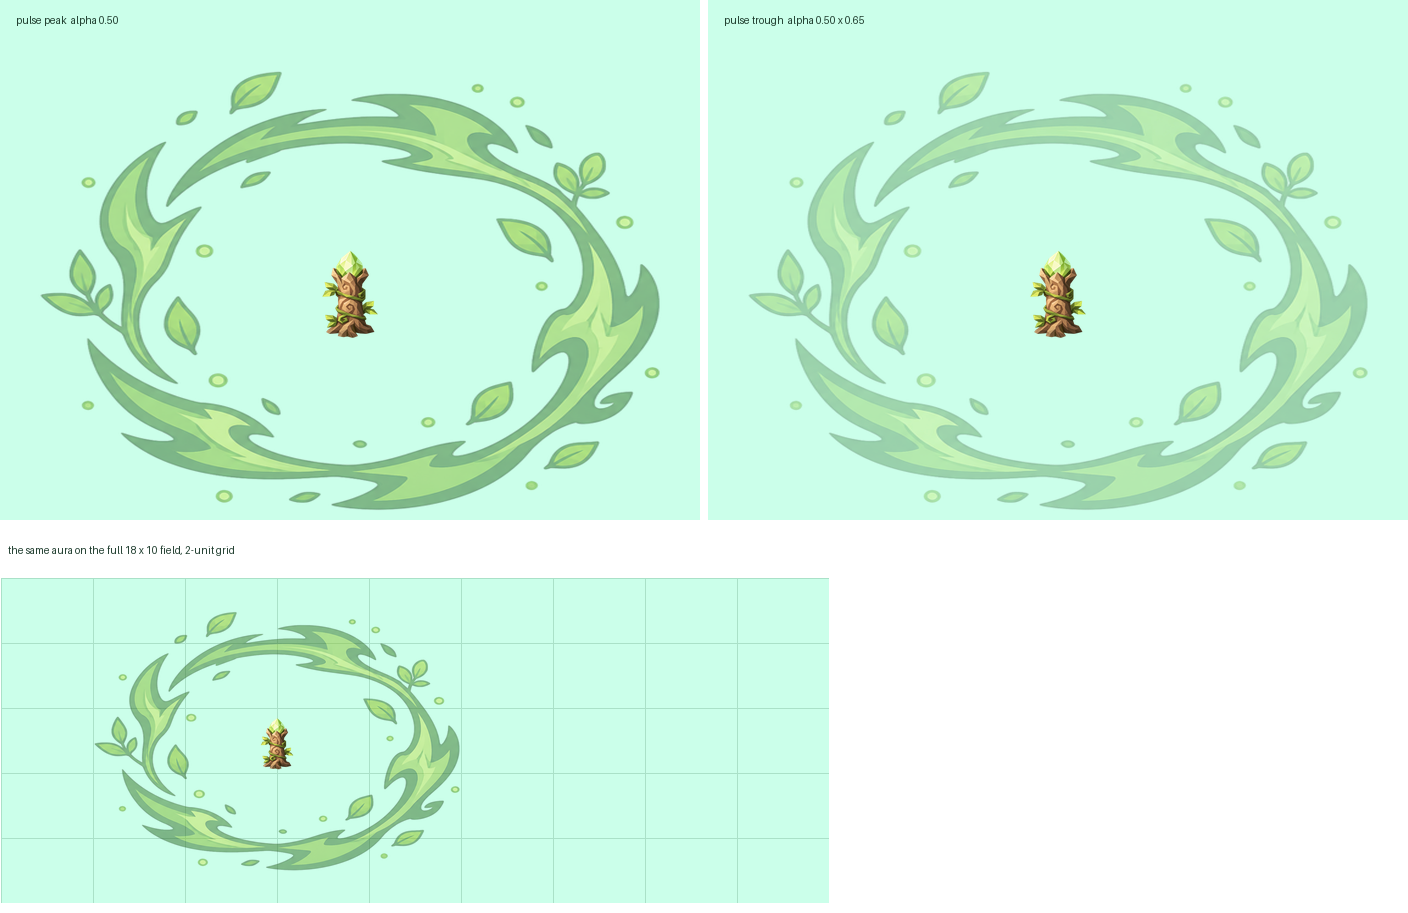
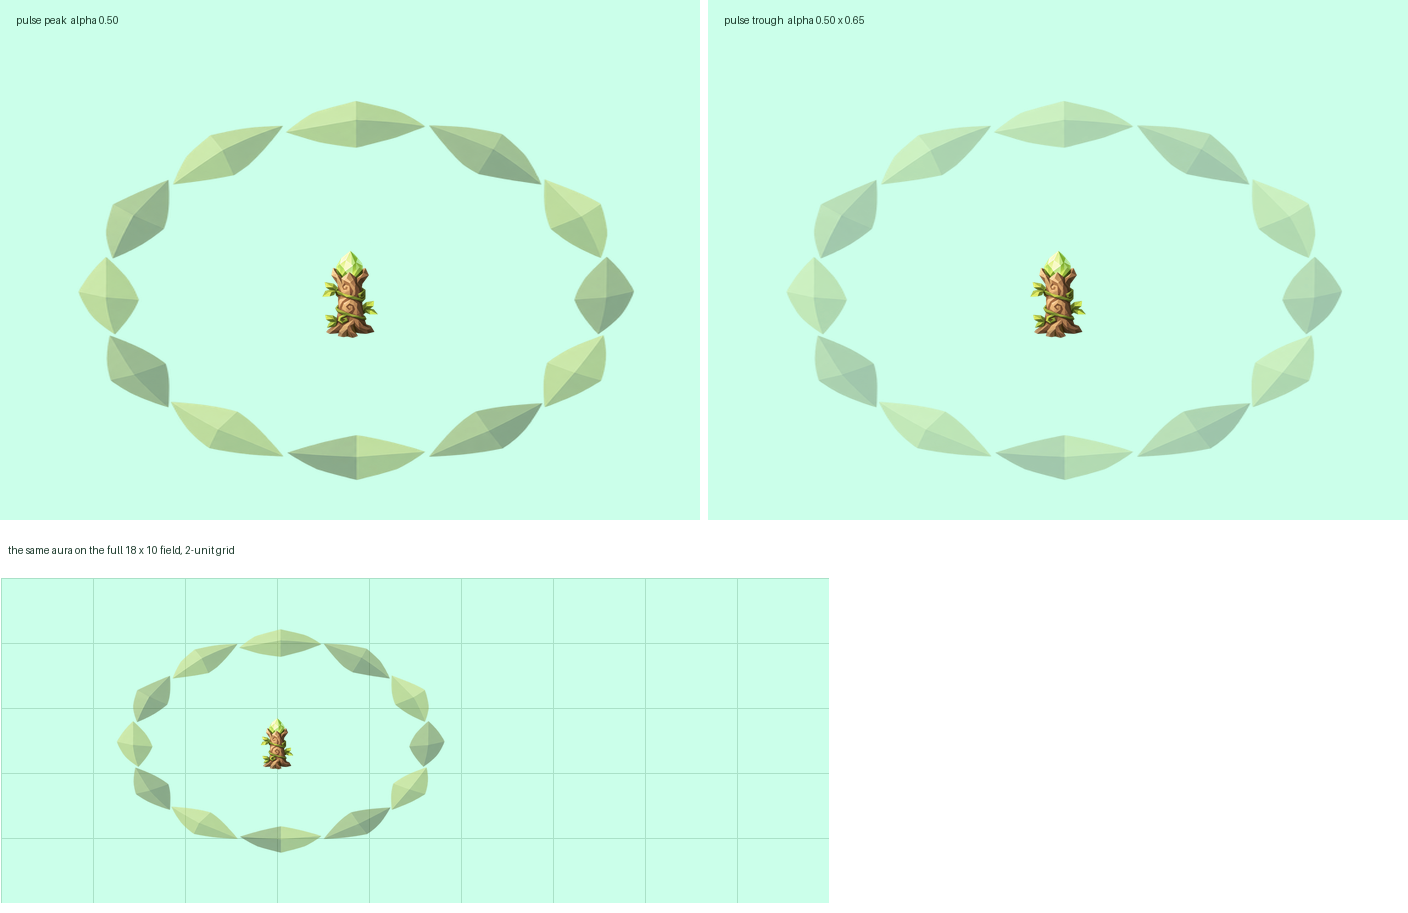
art: draw the repair aura with a master-v2 ring instead of the legacy one
The first pass scaled Assets/Art/Images/Effect/Aura/nature_aura.png to 6.25x,
which broke style two separate ways.

Technique: nature_aura is legacy art with a heavy dark outer contour on every
leaf, and STYLE.md says "No outer contour line. Forms separate by value, not by
stroke." At 8 world units that forbidden contour was about six times heavier
than any other line on screen. The six element auras are all drawn 1.28 units
wide and the largest real use is FireSpirit at 2.8x, so 8 units was 2.2x past
anything the art was made for.

Meaning: ANIMATION-ASSETS.md binds nature_aura to NatureIdleAura and
NatureAttackAura, which say what element state a unit is under. A radius is a
different statement, and one image cannot carry both.

So this adds Assets/Art/Images/Effect/AreaOfEffect/RepairAura.png, generated
against the master-v2 anchors: twelve large flat leaf facets, hard creases, no
contour anywhere, 512x512 RGBA at PPU 400, band 10.3% of the diameter, middle
empty so it never covers the unit standing in it. Square canvas on purpose --
AuraRadiusScaler scales each axis by half the sprite rect, so square is what
makes the circle round in world units and keeps localScale uniform at 6.25.

Area markers get their own folder and their own section in ANIMATION-ASSETS.md,
including why a status aura must not be scaled up into one, so the next asset
does not repeat this. The concept README records all three candidates, and that
[…]

Changed region(s): [[0.0312, 0.0613, 0.4688, 0.5827], [0.5312, 0.0613, 0.9688, 0.5827], [0.0625, 0.6747, 0.3438, 0.9507]]

diff --git a/.art/concept/repair-totem/finalize-aura.py b/.art/concept/repair-totem/finalize-aura.py
@@ -1,0 +1,90 @@
+#!/usr/bin/env python3
+"""Finalize a generated aura ring into a square production PNG.
+
+Differs from finalize.py in one way that matters: the output canvas is square.
+AuraRadiusScaler sizes the sprite by half its rect on each axis, so a square
+canvas holding a round ring makes the drawn circle round in world units and
+keeps the prefab's localScale uniform. A tight trim would hand back whatever
+aspect the generator happened to draw.
+
+Refuses a source without real alpha rather than matting one out, and reports the
+two numbers the brief is checked against: how round the ring is, and how thick
+its band is as a share of the diameter.
+"""
+import sys
+
+from PIL import Image
+
+
+def has_real_alpha(im):
+    if im.mode != "RGBA":
+        return False, f"mode is {im.mode}, not RGBA"
+    if im.getextrema()[3][0] == 255:
+        return False, "no pixel is transparent"
+    width, height = im.size
+    corners = [(0, 0), (width - 1, 0), (0, height - 1), (width - 1, height - 1)]
+    alphas = [im.getpixel(corner)[3] for corner in corners]
+    if any(alpha != 0 for alpha in alphas):
+        return False, f"corner alphas are {alphas}, expected all 0"
+    return True, ""
+
+
+def band_share(im):
+    """Band thickness over diameter, measured across the ring's horizontal centre."""
+    alpha = im.getchannel("A").load()
+    y = im.height // 2
+    opaque = [x for x in range(im.width) if alpha[x, y] > 8]
+    if not opaque:
+        return None
+    runs, start = [], opaque[0]
+    for previous, current in zip(opaque, opaque[1:]):
+        if current != previous + 1:
+            runs.append((start, previous))
+            start = current
+    runs.append((start, opaque[-1]))
+    diameter = opaque[-1] - opaque[0] + 1
+    thickest = max(end - begin + 1 for begin, end in runs)
+    return thickest / diameter, len(runs)
+
+
+def main():
+    if len(sys.argv) != 4:
+        print(f"usage: {sys.argv[0]} <input.png> <output.png> <size>", file=sys.stderr)
+        sys.exit(1)
+
+    src_path, dst_path, size = sys.argv[1], sys.argv[2], int(sys.argv[3])
+    im = Image.open(src_path).convert("RGBA")
+
+    ok, reason = has_real_alpha(im)
+    if not ok:
+        print(f"REJECT: {src_path} has no real alpha ({reason})", file=sys.stderr)
+        sys.exit(2)
+
+    bbox = im.getbbox()
+    if bbox is None:
+        print(f"REJECT: {src_path} is fully transparent", file=sys.stderr)
+        sys.exit(2)
+
+    cropped = im.crop(bbox)
+    width, height = cropped.size
+    print(f"source ring bbox {width}x{height}, aspect {width / height:.3f}")
+
+    # Pad the shorter axis symmetrically so the ring stays centred on a square canvas.
+    side = max(width, height)
+    square = Image.new("RGBA", (side, side), (0, 0, 0, 0))
+    square.alpha_composite(cropped, ((side - width) // 2, (side - height) // 2))
+
+    final = square.resize((size, size), Image.LANCZOS)
+    final.save(dst_path)
+
+    measured = band_share(final)
+    if measured is not None:
+        share, runs = measured
+        print(f"band is {share:.1%} of the diameter, {runs} opaque runs across the centre line")
+    transparent = sum(1 for a in final.getchannel("A").getdata() if a == 0)
+    print(f"{dst_path}: {final.size[0]}x{final.size[1]} {final.mode}, "
+          f"{transparent / (size * size):.1%} fully transparent")
+
+
+if __name__ == "__main__":
+    main()

diff --git a/.art/concept/repair-totem/preview-aura.py b/.art/concept/repair-totem/preview-aura.py
@@ -19,7 +19,7 @@ TOTEM_WIDTH, TOTEM_HEIGHT = 99 / 133.333333, 235 / 133.333333
 GROUND = (203, 255, 234, 255)
 INK = (30, 60, 45, 255)
 
-ring = Image.open("Assets/Art/Images/Effect/Aura/nature_aura.png").convert("RGBA")
+ring = Image.open("Assets/Art/Images/Effect/AreaOfEffect/RepairAura.png").convert("RGBA")
 totem = Image.open("Assets/Resources/Game/sprites/RepairTotem.png").convert("RGBA")
 
 

diff --git a/.art/concept/repair-totem/README.md b/.art/concept/repair-totem/README.md
@@ -150,14 +150,13 @@ reached. The radius is on the wire already — `RepairAura.start` calls
 `gameObject.drawCircle(Vector3.ZERO, radius, GizmoCategory.AreaOfEffect)` — but
 `ServedObjectGizmoRenderer` is inside `#if UNITY_EDITOR`, so a player never sees it.
 
-`RepairTotem.prefab` therefore carries a `RepairAura` child: the existing
-`nature_aura.png` ring at alpha 0.5 and sorting order 6, so it sits above the shadow
-(5) and under every body sprite (10), driven by the existing `IdleAuraEffect` for a
-slow breathing pulse, and sized by the new `AuraRadiusScaler`. That component reads
-`repair_totem.radius` out of the parameter table `ParametersDataSource` caches — the
-same table the server reads — so the drawn circle follows the migration value instead
-of a number copied into the prefab. It falls back to 4.0 with a warning when the table
-has not been fetched.
+`RepairTotem.prefab` therefore carries a `RepairAura` child: a ring sprite at alpha
+0.5 and sorting order 6, so it sits above the shadow (5) and under every body sprite
+(10), driven by the existing `IdleAuraEffect` for a slow breathing pulse, and sized by
+the new `AuraRadiusScaler`. That component reads `repair_totem.radius` out of the
+parameter table `ParametersDataSource` caches — the same table the server reads — so
+the drawn circle follows the migration value instead of a number copied into the
+prefab. It falls back to 4.0 with a warning when the table has not been fetched.
 
 The ring is a sprite standing in the world XY plane while the aura it stands for is a
 circle lying on the ground XZ plane. Those project to the same on-screen ellipse only
@@ -165,10 +164,74 @@ because this camera is tilted exactly 45 degrees, where sine and cosine are equa
 reasoning and what breaks if the camera ever moves are written up in
 `.agents/docs/scene-space.md`.
 
-`preview-aura.py` renders `aura-preview.png` by applying that projection by hand: the
-pulse at both ends of its alpha tween, and the same aura placed on the full 18 x 10
-field with a 2-unit grid, so the radius can be counted off the grid. The ring spans
-x 2..10 and z 1..9 around a totem at (6, 5), which is radius 4.
+### The first attempt reused `nature_aura.png`, and that was wrong
+
+The first version of this scaled the existing `Assets/Art/Images/Effect/Aura/nature_aura.png`
+to 6.25x. It was reverted for two separate reasons, both worth keeping written down:
+
+- **Technique.** `nature_aura.png` is legacy art with a heavy dark outer contour on
+  every leaf. `STYLE.md` says "No outer contour line. Forms separate by value, not by
+  stroke." Blowing it up to 8 world units made that forbidden contour roughly six times
+  heavier than any other line on screen. This PR had already been careful not to use the
+  legacy `HealingTotem`/`RallyingTotem`/`FrenzyTotem` sprites as rendering references,
+  and then put a legacy ring on top of the master-v2 sprite anyway.
+- **Meaning.** `ANIMATION-ASSETS.md`'s 오라 의미 table binds `nature_aura.png` to
+  `NatureIdleAura` and `NatureAttackAura`. Those are *status* auras: what element state
+  a unit is under. An area-of-effect radius is a different statement, and sharing one
+  image makes the same wreath mean two things. `ANIMATION-ASSETS.md` now has a
+  범위 표시 오라 section drawing that line, and area markers live under their own
+  `Assets/Art/Images/Effect/AreaOfEffect/` folder.
+
+### Candidates
+
+Three directions were generated, each one `image_gen` call with
+`MasterStyleKey.png` and `WorldTreeSpirit.png` attached, prompts in
+`prompts/aura-shared-prefix.txt` plus `prompts/aura-variant-*.txt`. The shared prefix
+leads with the transparency requirement rather than trailing it, and raises "no outer
+contour line" to the most important rule for this asset, since an outline is exactly
+what was being removed. `aura-candidates.png` compares all three at the size they are
+actually drawn — radius 4 on a 2-unit grid with the totem in the middle — plus a 64px
+readability chip.
+
+- **`RepairAura-v1-leaf-facets-source.png`** (chosen) — twelve large flat leaf kites
+  laid around the circle, each two facet planes split by one hard crease, alternating
+  light and dark nature greens, with transparent gaps between them. Band measures 10.2%
+  of the diameter, which is what the brief asked for, and it is the quietest of the
+  three behind gameplay.
+- **`RepairAura-v2-grass-blades-source.png`** (alternate, not used) — low grass tufts
+  standing around the circle. A clean real-alpha generation and a good look, but it is
+  built from 12 to 14 tufts of several blades each, so at 8 units the parts get small
+  and the ring starts to read as scatter rather than as one boundary. Kept in case a
+  future pass wants the more organic reading.
+- **v3, a woven root band** (prompt kept, image not committed) — a closed pale-wood
+  rope hoop with four leaf clusters. Its first `image_gen` call came back opaque and the
+  generating agent then ran a connected-component script to manufacture an alpha channel,
+  which is the chroma-keying `make-game-art/SKILL.md` forbids; that output was discarded
+  rather than accepted, and a second call produced genuine alpha. The clean version was
+  still not used: an unbroken brown band is the heaviest of the three, and its wood tone
+  competes with the totem's own bark instead of reading as an aura.
+
+### Finalizing
+
+`finalize-aura.py` differs from `finalize.py` in one way that matters: it pads the
+shorter axis to a square before resizing, instead of trimming tight. `AuraRadiusScaler`
+scales each axis by half the sprite rect on that axis, so a square canvas is what makes
+the drawn circle round in world units and keeps the prefab's `localScale` uniform at
+6.25. The chosen source cropped to 1230x1207 (aspect 1.019), so squaring it moved almost
+nothing. The finished sprite is 512x512 RGBA at PPU 400, 83.9% fully transparent, band
+10.3% of the diameter, all four corners alpha 0, no bright-desaturated block and no
+stray saturated pixels.
+
+`preview-aura.py` renders `aura-preview.png` by applying the camera's 45° projection by
+hand: the pulse at both ends of its alpha tween, and the same aura placed on the full
+18 x 10 field with a 2-unit grid, so the radius can be counted off the grid. The ring
+spans x 2..10 and z 1..9 around a totem at (6, 5), which is radius 4.
+
+### Known limit
+
+A `SpriteRenderer` is not clipped to the field. `SkillIndicatorShapeRenderer` clips its
+polygon to X 0..18 and Z 0..10; this ring does not, so a totem placed near a board edge
+draws leaves past it. Moving the visual to a mesh is the fix if that ever matters.
 
 ## Not run
 

diff --git a/.art/ANIMATION-ASSETS.md b/.art/ANIMATION-ASSETS.md
@@ -262,6 +262,35 @@ PPU·pivot·앵커 좌표를 같이 출력한다.
 스크립트로 지워서 투명하게 만들지 않는다"는 원래 격자무늬와 사진 같은 배경을
 두고 쓴 규칙이다. 요청해서 받은 단색 키는 그 규칙의 대상이 아니다.
 
+## 범위 표시 오라
+
+위 오라 의미 표의 element 오라 6종은 **상태 표시**다. 서버가 보낸 effect 이름을
+`ServedObjectEffectRenderer`가 `Prefabs/Effects/<이름>`으로 올리는 것이고, 그 개체가
+무슨 속성 상태인지를 말한다. 범위 표시는 다른 것이다. 서버 component 의 반지름이
+어디까지 닿는지를 말한다. 둘은 별도 에셋으로 유지하고 섞어 쓰지 않는다. 같은 그림을
+쓰면 같은 고리가 한쪽에서는 "자연 속성 상태", 다른 쪽에서는 "repair 반경"을 뜻하게
+된다.
+
+| 실제 파일 | 의미 이름 | 사용 방식 |
+|---|---|---|
+| `Effect/AreaOfEffect/RepairAura.png` | repair_totem · 수리 범위 경계 | `RepairTotem.prefab` 자식 SpriteRenderer, `AuraRadiusScaler`가 크기 결정 |
+
+- **상태 오라를 키워서 범위 표시로 쓰지 않는다.** element 오라 6종은 전부 가로
+  1.28 world unit 로 그려져 있고 실제 최대 사용처가 `FireSpirit`의 2.8배, 즉 3.58
+  unit 이다. 범위 표시는 8 unit 을 넘는다. 2026-09-14 에 `nature_aura.png`를 6.25배로
+  늘려 붙였다가 되돌렸다. legacy 오라 그림은 잎마다 외곽선을 두르는데 `STYLE.md`는
+  "No outer contour line"이라 그 외곽선이 화면의 다른 어떤 선보다 6배 굵어졌다.
+- 범위 표시는 그려질 크기를 정해놓고 그 크기에 맞춰 새로 뽑는다. 띠 두께는 지름의
+  10% 안팎, 가운데는 완전히 비운다. 안에 선 유닛을 가리면 안 된다.
+- 정사각 canvas 로 내보낸다. `AuraRadiusScaler`가 sprite rect 의 가로·세로 절반으로
+  각 축 배율을 따로 내므로, 정사각이어야 world 에서 원이 되고 prefab 의 localScale 도
+  균일해진다.
+- 반지름은 prefab 에 적지 않고 `ParametersDataSource`가 캐시한 parameter 표에서
+  읽는다. 서버가 읽는 그 표다.
+- **sprite 는 필드 경계로 잘리지 않는다.** `SkillIndicatorShapeRenderer`는 X 0..18,
+  Z 0..10 으로 polygon 을 잘라내지만 SpriteRenderer 에는 그런 장치가 없다. 가장자리에
+  세우면 그림이 판 밖으로 나간다. 잘림이 꼭 필요해지면 mesh 쪽으로 옮겨야 한다.
+
 ## 홈페이지 표시
 
 - 기본·공격 프레임이 실제로 다른 포즈면 둘 다 표시한다.
